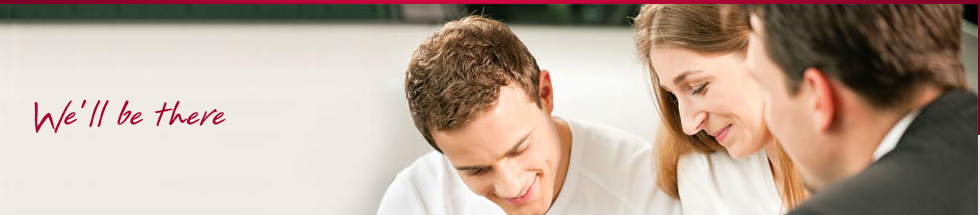
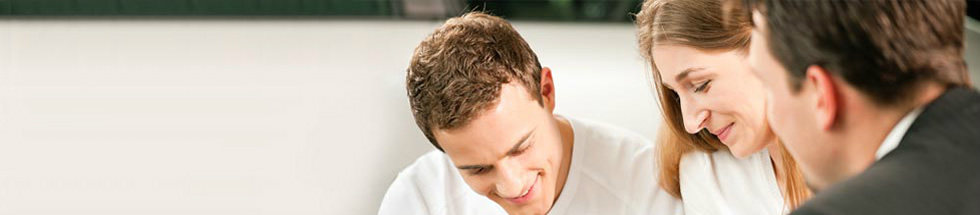
Final changes before deploy / sleep

diff --git a/src/_layouts/our_team_item.html b/src/_layouts/our_team_item.html
@@ -1,5 +1,6 @@
 ---
 layout: internal
+side_nav_id: 3
 ---
 
 {% assign settings = site.data.settings %}
@@ -20,25 +21,29 @@ layout: internal
             <h1>{{ page.title }}</h1>
             <br>
 
-            {% for i in (1..4) %}
             <article class="media">
                 <div class="row">
 
                     <div class="medium-3 columns">
-                        <!-- Imagegen: max-width=256 -->
-                        <p><img width="100%" class="polaroid" src="/img/ui/no-face.png" alt="..."></p>
+                        <p><img class="polaroid" src="/img/ui/no-face.png" alt=""></p>
                     </div> <!-- .medium-3 -->
 
                     <div class="medium-9 columns">
-                        <h3>John Smith <small>Managing Partner</small></h3>
-                        <p><strong>P </strong>(02) 5555 5555<strong><br>E </strong><a href="mailto:mail@yourdomain.com.au">mail@yourdomain.com.au</a></p>
-                        <a class="button tiny radius" href="/our-team/person/">View Profile</a>
+                        <h3 class="subheader">Managing Partner</h3>
+                        <p><strong>P </strong><a href="tel:02555555">(02) 5555 5555</a><strong><br>E </strong><a href="mailto:mail@yourdomain.com.au">mail@yourdomain.com.au</a></p>
+                        <p><strong>Practice Areas:</strong>
+                            {% for i in (1..5) %}
+                                <a href="#">{{ "Lorem Ipsum" }}</a>,
+                            {% endfor %}
+                        </p>
+
                     </div> <!-- .medium-9 -->
 
                 </div> <!-- .row -->
                 <hr>
             </article>
-            {% endfor %}
+
+            {{ content | markdo}}
 
         </main>
     </div>

diff --git a/src/_scss/main.scss b/src/_scss/main.scss
@@ -5,7 +5,7 @@
 /*
     MAIN.CSS
 
-    - Last updated: 29.11.14
+    - Last updated: 16.12.14
     - hello@liquidvisual.com
 */
 //-----------------------------------------------------------------
@@ -82,6 +82,10 @@ ul[class*='block-grid'] li img {
         }
     }
 
+    input {
+        border: 0;
+    }
+
     .phone {
         color: white;
         font-weight: bold;
@@ -102,6 +106,7 @@ ul[class*='block-grid'] li img {
 //-----------------------------------------------------------------
 
 .navigation ul {
+    background: red;
     background: #EFEEEE;
 
     background: rgb(255,255,255);
@@ -113,7 +118,6 @@ ul[class*='block-grid'] li img {
     background: -ms-linear-gradient(top,  rgba(255,255,255,1) 0%,rgba(209,209,209,1) 100%);
     background: linear-gradient(to bottom,  rgba(255,255,255,1) 0%,rgba(209,209,209,1) 100%);
     filter: progid:DXImageTransform.Microsoft.gradient( startColorstr='#ffffff', endColorstr='#d1d1d1',GradientType=0 );
-
 }
 
 //-----------------------------------------------------------------
@@ -210,6 +214,13 @@ ul[class*='block-grid'] li img {
         // color: white;
     }
 
+    h5 {
+        font-weight: bold;
+        color: white;
+        // border-bottom: 2px solid white;
+        margin-bottom: rem-calc(20);
+    }
+
     li {
         margin-bottom: rem-calc(5);
     }
@@ -287,6 +298,15 @@ a {
 //-----------------------------------------------------------------
 // Special / Misc - Refactor Later
 //-----------------------------------------------------------------
+
+.accordion {
+    border: 1px solid #d1d1d1;
+    border-top: 0;
+}
+
+.accordion a {
+    border-top: 1px solid #d1d1d1;
+}
 
 .main ul li {
     margin-bottom: rem-calc(14);

diff --git a/src/_includes/snippets/accordion.html b/src/_includes/snippets/accordion.html
@@ -3,15 +3,24 @@
 <!-- Accordion Module -->
 <dl class="accordion" data-accordion>
     {% for item in items %}
-        {% assign id = item.title | downcase | replace: ' ', '-' %}
+        {% assign id = item.id %}
         <dd class="accordion-navigation">
             <a href="{{ id | prepend: "#"}}"><b>{{ item.title }}</b> <i class="icon-angle-down"></i><i class="icon-angle-up"></i></a>
             <div id="{{ id }}" class="content">
-                <ul class="small-block-grid-1 medium-block-grid-2 large-block-grid-3">
-                {% for item in item.children  %}
-                    <li><a href="{{ school.url }}">{{ item.title }}</a></li>
-                {% endfor %}
-                </ul>
+
+                <!-- Accordion Module -->
+                <dl class="accordion" data-accordion>
+                    {% for item in item.children %}
+                        {% assign id = item.title | downcase | replace: ' ', '-' %}
+                        <dd class="accordion-navigation">
+                            <a href="{{ id | prepend: "#"}}"><b>{{ item.title }}</b> <i class="icon-angle-down"></i><i class="icon-angle-up"></i></a>
+                            <div id="{{ id }}" class="content">
+                                {{ item.body }}
+                            </div> <!-- .content -->
+                        </dd> <!-- .accordion-navigation -->
+                    {% endfor %}
+                </dl> <!-- .accordion -->
+
             </div> <!-- .content -->
         </dd> <!-- .accordion-navigation -->
     {% endfor %}

diff --git a/src/_scss/foundation/_settings.scss b/src/_scss/foundation/_settings.scss
@@ -323,12 +323,12 @@ $paragraph-font-size: rem-calc(14); //1rem;
 
 // $include-html-accordion-classes: $include-html-classes;
 
-// $accordion-navigation-padding: rem-calc(16);
+$accordion-navigation-padding: rem-calc(13);
 // $accordion-navigation-bg-color: $silver  ;
 // $accordion-navigation-hover-bg-color: scale-color($accordion-navigation-bg-color, $lightness: -5%);
 // $accordion-navigation-active-bg-color: scale-color($accordion-navigation-bg-color, $lightness: -3%);
 // $accordion-navigation-font-color: $jet;
-// $accordion-navigation-font-size: rem-calc(16);
+$accordion-navigation-font-size: rem-calc(14);
 // $accordion-navigation-font-family: $body-font-family;
 
 // $accordion-content-padding: $column-gutter/2;
@@ -427,9 +427,9 @@ $paragraph-font-size: rem-calc(14); //1rem;
 // $include-html-button-classes: $include-html-classes;
 
 // We use these to build padding for buttons.
-// $button-tny: rem-calc(10);
+$button-tny: rem-calc(8);
 // $button-sml: rem-calc(14);
-// $button-med: rem-calc(16);
+$button-med: rem-calc(13);
 // $button-lrg: rem-calc(18);
 
 // We use this to control the display property.
@@ -440,7 +440,7 @@ $paragraph-font-size: rem-calc(14); //1rem;
 // $button-font-family: $body-font-family;
 // $button-font-color: $white;
 // $button-font-color-alt: $oil;
-// $button-font-tny: rem-calc(11);
+$button-font-tny: rem-calc(14);
 // $button-font-sml: rem-calc(13);
 // $button-font-med: rem-calc(16);
 // $button-font-lrg: rem-calc(20);

diff --git a/src/_layouts/master.html b/src/_layouts/master.html
@@ -42,7 +42,7 @@
 </head>
 <body>
     <div class="lv-super developerX">
-        <div class="lv-page">
+        <div class="lv-page lv-no-flicker">
 
             <header class="header">
                 {% include header.html %}
@@ -76,11 +76,12 @@
     <script src="/_bower_components/jquery-placeholder/jquery.placeholder.js"></script>
     <script src="/_bower_components/jQuery.mmenu/src/js/jquery.mmenu.min.all.js"></script>
     <script src="/_bower_components/fastclick/lib/fastclick.js"></script>
-    <script src="/_bower_components/foundation/js/foundation/foundation.js"></script>
-    <script src="/_bower_components/foundation/js/foundation/foundation.equalizer.js"></script>
-    <script src="/_bower_components/magnific-popup/dist/jquery.magnific-popup.min.js"></script>
     <script src="/_bower_components/nprogress/nprogress.js"></script>
     <script src="/_bower_components/slick.js/slick/slick.js"></script>
+    <script src="/_bower_components/foundation/js/foundation/foundation.js"></script>
+    <script src="/_bower_components/foundation/js/foundation/foundation.accordion.js"></script>
+    <script src="/_bower_components/foundation/js/foundation/foundation.equalizer.js"></script>
+    <script src="/_bower_components/magnific-popup/dist/jquery.magnific-popup.min.js"></script>
     <script src="/scripts/main.js"></script>
     <!-- endbuild -->
 

diff --git a/src/_scss/hero.scss b/src/_scss/hero.scss
@@ -36,15 +36,21 @@ $hero-carousel-bullet-size: 12px;
 
 .lv-hero-module {
     overflow: hidden;
-    height: auto;
+    // height: auto;
+    height: rem-calc(100);
     margin-bottom: 0;
 
     &.has-auto-height {
-        height: auto;
+        // height: auto;
+        height: rem-calc(100);
     }
 
     &.has-fixed-height {
-        height: $hero-height;
+        height: rem-calc(100);
+
+        @media #{$medium-up} {
+            height: $hero-height;
+        }
     }
 
     @media #{$medium-up} {
@@ -102,7 +108,7 @@ $hero-carousel-bullet-size: 12px;
     text-align: center;
     //text-shadow: 0 2px 4px rgba(0, 0, 0, 0.3);
 
-    h1, h2, h3, h4, h5, h6 {
+    p, h1, h2, h3, h4, h5, h6 {
         line-height: 1.2;
         font-family: $hero-caption-header-font-family;
         font-size: $hero-caption-header-font-size; /* mobile */

diff --git a/src/scripts/main.js b/src/scripts/main.js
@@ -67,12 +67,12 @@ $(".hamburger").css({"visibility": "visible"}).bind(touchEvent, function() {
 if (TOUCH_ENABLED) {
     // Make Accordion jump to the top of the heading on mobile
     // http://foundation.zurb.com/forum/posts/1316-accordion-jump-to-top-when-active
-    /*$(document).foundation('accordion', {
+    $(document).foundation('accordion', {
         callback: function (el){
             var containerPos = $(el).parent().offset().top;
             $('html, body').animate({ scrollTop: containerPos }, 300);
         }
-    });*/
+    });
 }
 //-----------------------------------------------------------------
 // <= IE8 Caution Message

diff --git a/src/_layouts/text_page_accordion.html b/src/_layouts/text_page_accordion.html
@@ -1,0 +1,26 @@
+---
+layout: internal
+---
+
+<div class="row">
+
+    <!-- SIDEBAR -->
+    <div class="medium-4 medium-push-8 columns">
+        <aside class="sidebar">
+            {% include snippets/side_nav.html %}
+        </aside>
+        <p><a href="/contact-us"><img width="100%" src="/img/template/need-advice.jpg" alt="Need Advice"></a></p>
+    </div>
+
+    <!-- MAIN -->
+    <div class="medium-8 medium-pull-4 columns">
+        <main class="main">
+            <h1>{{ page.title }}</h1>
+            <br>
+            {{ content}}
+
+            {% include snippets/accordion.html %}
+        </main>
+    </div>
+
+</div>

diff --git a/src/_includes/hero.html b/src/_includes/hero.html
@@ -1,7 +1,7 @@
 {% assign hero_images = site.data.carousel_slides %}
 
 <!-- HERO MODULE -->
-<div id="lv-hero-carousel" class="lv-hero-module">
+<div id="lv-hero-carousel" class="lv-hero-module show-for-medium-up">
 
     {% for hero in hero_images %}
 
@@ -17,8 +17,7 @@
                 <div class="medium-7 medium-offset-5 text-center columns">
                 <div class="lv-hero-caption animated">
             {% endif %}
-
-                    <h1>{{ hero.caption }}</h1>
+                    {{ hero.caption | markdownify }}
                 </div> <!-- .lv-hero-caption -->
             </div> <!-- .columns -->
 

diff --git a/src/_includes/header.html b/src/_includes/header.html
@@ -7,7 +7,7 @@
 {% assign logo = "/img/content/logo@2x.png" %}
 
 <div class="row">
-    <div class="medium-6 columns text-center medium-text-left">
+    <div class="medium-6 columns medium-text-left">
         <a class="logo" href="/" title="{{ settings.seo_title }}" itemprop="url">
         	<img width="240" src="{{ logo }}" alt="{{ settings.company_title }}" itemprop="logo">
         </a>
@@ -41,4 +41,4 @@
 </div>
 
 <!-- Important: Hamburger outside of row -->
-<!-- <a href="#" class="hamburger hide-for-large-up"><span>OPEN MENU</span></a> -->
+<a href="#" class="hamburger hide-for-medium-up"><span></span></a>

diff --git a/src/_scss/liquidvisual/components/_topbar.scss b/src/_scss/liquidvisual/components/_topbar.scss
@@ -48,7 +48,7 @@
 
 .topbar li {
     display: table-cell;
-    vertical-align: middle;
+    vertical-align: top;
 
     @media #{$xlarge-up} {
 
@@ -153,8 +153,8 @@
 .hamburger {
     position: absolute;
     // visibility: hidden;
-    // top: 50%;
-    bottom: rem-calc(10);
+    top: rem-calc(50);
+    // bottom: rem-calc(10);
     right: rem-calc(15);
     display: block;
     width: rem-calc(28);
@@ -179,7 +179,7 @@
     left: 0;
     width: 100%;
     height: rem-calc(4);
-    background: #201E1F;
+    background: black;
 }
 .hamburger:before {
     top: 0;

diff --git a/src/_includes/footer.html b/src/_includes/footer.html
@@ -16,7 +16,7 @@
 					</p>
 				</li>
 				<li>
-					<h5>Email</h5>
+					<h5>Contact</h5>
 					<p>
 						<i class="fi-mail"></i>&nbsp; <a href="mailto:{{ settings.email }}">{{ settings.email }}</a>
 						<br>
@@ -24,7 +24,7 @@
 						<i class="fi-marker"></i>&nbsp; P.O. Box {{ settings.pobox }}
 					</p>
 				</li>
-				<li>
+				<li class="show-for-medium-up">
 					<h5>Site Index</h5>
 					<ul class="no-bullet">
 						{% for item in site.data.sitemap %}
